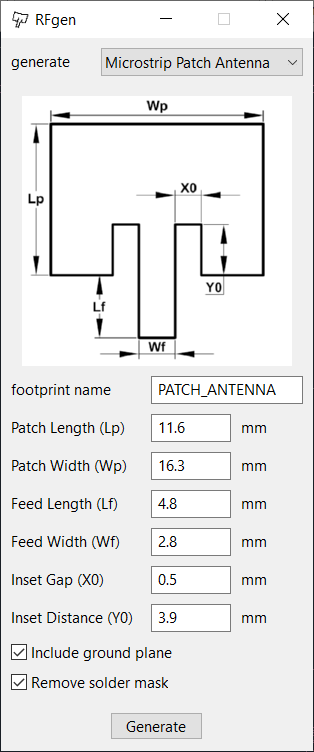
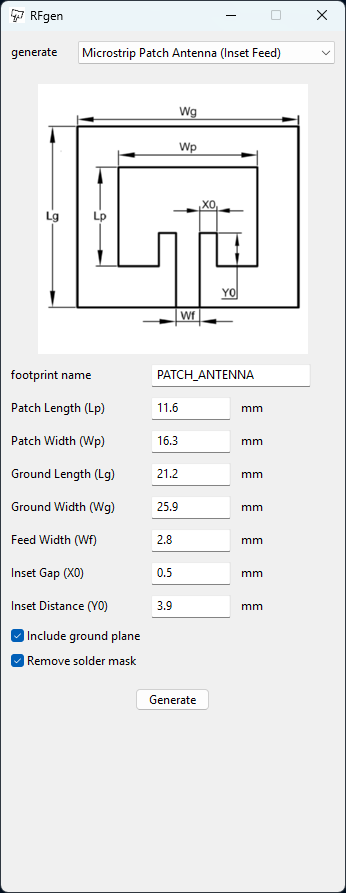
fix a bug where it caused a drc error when connecting antenna to a pad with a net

diff --git a/plugins/wilkinson_gen.py b/plugins/wilkinson_gen.py
@@ -1,25 +1,6 @@
 import pcbnew
+from .sexpr import points_to_sexpr, pad_to_sexpr, corner_anchor
 
-def points_to_sexpr(points, layer):
-    pts = []
-    mode = None
-    buf = []
-    for point in points:
-        if isinstance(point, str) and point.lower() == "arc_start":
-            mode = "arc"
-            buf = []
-            continue
-        if mode == "arc":
-            buf.append(point)
-            if len(buf) == 3:
-                start, mid, end = buf
-                pts.append(
-                    f"(arc (start {start.x/1e6:.6f} {start.y/1e6:.6f}) (mid {mid.x/1e6:.6f} {mid.y/1e6:.6f}) (end {end.x/1e6:.6f} {end.y/1e6:.6f}))"
-                )
-                mode = None
-            continue
-        pts.append(f"(xy {point.x/1e6:.6f} {point.y/1e6:.6f})")
-    return f"(fp_poly (pts {' '.join(pts)}) (layer {layer}) (width 0) (fill solid))\n"
 
 def generate_wilkinson(name="WILKINSON", input_length=4, input_width=5, output_length=8, output_width=4, arc_radius=5, arc_width=4, ground_check=True, mask_check=True):
     points_input = [
@@ -86,29 +67,19 @@ def generate_wilkinson(name="WILKINSON", input_length=4, input_width=5, output_l
         pcbnew.VECTOR2I(pcbnew.FromMM(arc_radius), pcbnew.FromMM(input_width/2+output_width/2)),
     ]
 
-    winput = points_to_sexpr(points_input, "F.Cu")
-    arc_left = points_to_sexpr(points_arc_left, "F.Cu")
-    arc_right = points_to_sexpr(points_arc_right, "F.Cu")
-    w_output_left = points_to_sexpr(points_output_left, "F.Cu")
-    w_output_right = points_to_sexpr(points_output_right, "F.Cu")
-    poly_f = winput + arc_left + arc_right + w_output_left + w_output_right
-
-    poly_b = points_to_sexpr(points_ground, "B.Cu")
-    poly_copper = poly_f + poly_b if ground_check else poly_f
+    input_pad = pad_to_sexpr(1, [points_input, points_arc_left, points_arc_right], (-arc_radius-arc_width-input_length/2, 0), (input_length, input_width), "F.Cu")
+    output_pad_left = pad_to_sexpr(2, [points_output_left], (arc_radius+arc_width+output_length/2, -input_width/2-output_width/2), (output_length, output_width), "F.Cu")
+    output_pad_right = pad_to_sexpr(3, [points_output_right], (arc_radius+arc_width+output_length/2, input_width/2+output_width/2), (output_length, output_width), "F.Cu")
+    ground_pad = pad_to_sexpr(4, [points_ground], *corner_anchor(points_ground), "B.Cu")
+    pads = input_pad + output_pad_left + output_pad_right + (ground_pad if ground_check else "")
 
     poly_mask_left = points_to_sexpr(points_mask_left, "F.Mask")
     poly_mask_right = points_to_sexpr(points_mask_right, "F.Mask")
-    poly_mask = poly_mask_left + poly_mask_right
-
-    poly = poly_copper + poly_mask if mask_check else poly_copper
-
-    input_pad = f"(pad 1 smd rect (at {-arc_radius-arc_width-input_length/2} 0) (size {input_length} {input_width}) (layers F.Cu))\n"
-    output_pad_left = f"(pad 2 smd rect (at {arc_radius+arc_width+output_length/2} {-input_width/2-output_width/2}) (size {output_length} {output_width}) (layers F.Cu))\n"
-    output_pad_right = f"(pad 3 smd rect (at {arc_radius+arc_width+output_length/2} {input_width/2+output_width/2}) (size {output_length} {output_width}) (layers F.Cu))\n"
-    pads = input_pad + output_pad_left + output_pad_right
+    poly = poly_mask_left + poly_mask_right if mask_check else ""
 
     template = f"""
                 (module {name} (layer F.Cu)
+                (net_tie_pad_groups "1,2,3")
                 (fp_text reference REF** (at 0 0) (layer F.SilkS))
                 (fp_text value {name} (at 0 -2) (layer F.Fab))
                 {poly}

diff --git a/plugins/microstrip_patch_dual_coaxial_gen.py b/plugins/microstrip_patch_dual_coaxial_gen.py
@@ -1,10 +1,6 @@
 import pcbnew
 import math
-
-
-def points_to_sexpr(points, layer):
-    pts = " ".join([f"(xy {p.x / 1e6:.6f} {p.y / 1e6:.6f})" for p in points])
-    return f"(fp_poly (pts {pts}) (layer {layer}) (width 0) (fill solid))\n"
+from .sexpr import points_to_sexpr, pad_to_sexpr, corner_anchor
 
 
 def generate_microstrip_dual_coaxial_patch(name="PATCH_ANTENNA", patch_length=28.314, patch_width=28.314, ground_length=37.914, ground_width=37.914, feed_offset_x_a=7.286, feed_offset_y_a=0, feed_offset_x_b=0, feed_offset_y_b=7.286, pad_radius=2.143, hole_radius=0.635, clearance_radius=3.5, ground_check=True, mask_check=True):
@@ -39,19 +35,20 @@ def generate_microstrip_dual_coaxial_patch(name="PATCH_ANTENNA", patch_length=28
         pcbnew.VECTOR2I(-pcbnew.FromMM(ground_width / 2), pcbnew.FromMM(ground_length / 2))
     ]
 
-    poly_f = points_to_sexpr(points_f, "F.Cu")
-    poly_b = points_to_sexpr(points_b, "B.Cu")
+    pad_probe_a = f"(pad 1 thru_hole circle (at {feed_offset_x_a} {feed_offset_y_a}) (size {pad_radius * 2} {pad_radius * 2}) (drill {hole_radius * 2}) (layers *.Cu *.Mask))\n"
+    pad_probe_b = f"(pad 2 thru_hole circle (at {feed_offset_x_b} {feed_offset_y_b}) (size {pad_radius * 2} {pad_radius * 2}) (drill {hole_radius * 2}) (layers *.Cu *.Mask))\n"
+    pad_f = pad_to_sexpr(1, [points_f], (feed_offset_x_a, feed_offset_y_a), (pad_radius * 2, pad_radius * 2), "F.Cu", anchor="circle")
+    pad_b = pad_to_sexpr(3, [points_b], *corner_anchor(points_b), "B.Cu")
+    pads = pad_probe_a + pad_probe_b + pad_f + (pad_b if ground_check else "")
+
     poly_fm = points_to_sexpr(points_f, "F.Mask")
     poly_bm = points_to_sexpr(points_b, "B.Mask")
-    poly_copper = poly_f + poly_b if ground_check else poly_f
     poly_mask = poly_fm + poly_bm if ground_check else poly_fm
-    poly = poly_copper + poly_mask if mask_check else poly_copper
-
-    pads = (f"(pad 1 thru_hole circle (at {feed_offset_x_a} {feed_offset_y_a}) (size {pad_radius * 2} {pad_radius * 2}) (drill {hole_radius * 2}) (layers *.Cu *.Mask))\n"
-            f"(pad 2 thru_hole circle (at {feed_offset_x_b} {feed_offset_y_b}) (size {pad_radius * 2} {pad_radius * 2}) (drill {hole_radius * 2}) (layers *.Cu *.Mask))\n")
+    poly = poly_mask if mask_check else ""
 
     template = f"""
                 (module {name} (layer F.Cu)
+                (net_tie_pad_groups "1,2")
                 (fp_text reference REF** (at 0 0) (layer F.SilkS))
                 (fp_text value {name} (at 0 -2) (layer F.Fab))
                 {poly}

diff --git a/plugins/microstrip_patch_coaxial_gen.py b/plugins/microstrip_patch_coaxial_gen.py
@@ -1,10 +1,6 @@
 import pcbnew
 import math
-
-
-def points_to_sexpr(points, layer):
-    pts = " ".join([f"(xy {p.x / 1e6:.6f} {p.y / 1e6:.6f})" for p in points])
-    return f"(fp_poly (pts {pts}) (layer {layer}) (width 0) (fill solid))\n"
+from .sexpr import points_to_sexpr, pad_to_sexpr, corner_anchor
 
 
 def generate_microstrip_coaxial_patch(name="PATCH_ANTENNA", patch_length=28.348, patch_width=28.348, ground_length=37.948, ground_width=37.948, feed_offset_x=0, feed_offset_y=7.286, pad_radius=2.143, hole_radius=0.635, clearance_radius=3.5, ground_check=True, mask_check=True):
@@ -32,15 +28,15 @@ def generate_microstrip_coaxial_patch(name="PATCH_ANTENNA", patch_length=28.348,
         pcbnew.VECTOR2I(-pcbnew.FromMM(ground_width / 2), pcbnew.FromMM(ground_length / 2))
     ]
 
-    poly_f = points_to_sexpr(points_f, "F.Cu")
-    poly_b = points_to_sexpr(points_b, "B.Cu")
+    pad_probe = f"(pad 1 thru_hole circle (at {feed_offset_x} {feed_offset_y}) (size {pad_radius * 2} {pad_radius * 2}) (drill {hole_radius * 2}) (layers *.Cu *.Mask))\n"
+    pad_f = pad_to_sexpr(1, [points_f], (feed_offset_x, feed_offset_y), (pad_radius * 2, pad_radius * 2), "F.Cu", anchor="circle")
+    pad_b = pad_to_sexpr(2, [points_b], *corner_anchor(points_b), "B.Cu")
+    pad = pad_probe + pad_f + (pad_b if ground_check else "")
+
     poly_fm = points_to_sexpr(points_f, "F.Mask")
     poly_bm = points_to_sexpr(points_b, "B.Mask")
-    poly_copper = poly_f + poly_b if ground_check else poly_f
     poly_mask = poly_fm + poly_bm if ground_check else poly_fm
-    poly = poly_copper + poly_mask if mask_check else poly_copper
-
-    pad = f"(pad 1 thru_hole circle (at {feed_offset_x} {feed_offset_y}) (size {pad_radius * 2} {pad_radius * 2}) (drill {hole_radius * 2}) (layers *.Cu *.Mask))\n"
+    poly = poly_mask if mask_check else ""
 
     template = f"""
                 (module {name} (layer F.Cu)

diff --git a/plugins/sexpr.py b/plugins/sexpr.py
@@ -1,0 +1,40 @@
+def _pts(points, offset_x=0.0, offset_y=0.0):
+    pts = []
+    mode = None
+    buf = []
+    for point in points:
+        if isinstance(point, str) and point.lower() == "arc_start":
+            mode = "arc"
+            buf = []
+            continue
+        if mode == "arc":
+            buf.append(point)
+            if len(buf) == 3:
+                start, mid, end = buf
+                pts.append(
+                    f"(arc (start {start.x/1e6 - offset_x:.6f} {start.y/1e6 - offset_y:.6f})"
+                    f" (mid {mid.x/1e6 - offset_x:.6f} {mid.y/1e6 - offset_y:.6f})"
+                    f" (end {end.x/1e6 - offset_x:.6f} {end.y/1e6 - offset_y:.6f}))"
+                )
+                mode = None
+            continue
+        pts.append(f"(xy {point.x/1e6 - offset_x:.6f} {point.y/1e6 - offset_y:.6f})")
+    return " ".join(pts)
+
+
+def points_to_sexpr(points, layer):
+    return f"(fp_poly (pts {_pts(points)}) (layer {layer}) (width 0) (fill solid))\n"
+
+
+def pad_to_sexpr(number, polys, at, size, layers, anchor="rect"):
+    x, y = at
+    primitives = "".join(f"(gr_poly (pts {_pts(poly, x, y)}) (width 0) (fill yes))" for poly in polys)
+    return (f"(pad {number} smd custom (at {x:.6f} {y:.6f}) (size {size[0]:.6f} {size[1]:.6f}) (layers {layers})"
+            f"(options (clearance outline) (anchor {anchor}))"
+            f"(primitives {primitives}))\n")
+
+
+def corner_anchor(points, size=0.5):
+    x = min(p.x for p in points) / 1e6 + size / 2
+    y = min(p.y for p in points) / 1e6 + size / 2
+    return (x, y), (size, size)

diff --git a/plugins/microstrip_patch_gen_legacy.py b/plugins/microstrip_patch_gen_legacy.py
@@ -1,9 +1,5 @@
 import pcbnew
-
-
-def points_to_sexpr(points, layer):
-    pts = " ".join([f"(xy {p.x / 1e6:.6f} {p.y / 1e6:.6f})" for p in points])
-    return f"(fp_poly (pts {pts}) (layer {layer}) (width 0) (fill solid))\n"
+from .sexpr import points_to_sexpr, pad_to_sexpr, corner_anchor
 
 
 def generate_microstrip_patch_legacy(name="PATCH_ANTENNA", patch_length=15, patch_width=20, feed_length=5, feed_width=3, inset_gap=1, inset_distance=5, ground_check=True, mask_check=True):
@@ -30,15 +26,14 @@ def generate_microstrip_patch_legacy(name="PATCH_ANTENNA", patch_length=15, patc
         pcbnew.VECTOR2I(-pcbnew.FromMM(patch_width / 2), pcbnew.FromMM(patch_length / 2 + feed_length))
     ]
 
-    poly_f = points_to_sexpr(points_f, "F.Cu")
-    poly_b = points_to_sexpr(points_b, "B.Cu")
+    pad_f = pad_to_sexpr(1, [points_f], (0, patch_length / 2 + feed_length - feed_width / 2), (feed_width, feed_width), "F.Cu")
+    pad_b = pad_to_sexpr(2, [points_b], *corner_anchor(points_b), "B.Cu")
+    pad = pad_f + pad_b if ground_check else pad_f
+
     poly_fm = points_to_sexpr(points_f, "F.Mask")
     poly_bm = points_to_sexpr(points_b, "B.Mask")
-    poly_copper = poly_f + poly_b if ground_check else poly_f
     poly_mask = poly_fm + poly_bm if ground_check else poly_fm
-    poly = poly_copper + poly_mask if mask_check else poly_copper
-
-    pad = f"(pad 1 smd rect (at 0 {patch_length/2+feed_length-feed_width/2}) (size {feed_width} {feed_width}) (layers F.Cu))\n"
+    poly = poly_mask if mask_check else ""
 
     template = f"""
                 (module {name} (layer F.Cu)

diff --git a/plugins/microstrip_patch_inset_gen.py b/plugins/microstrip_patch_inset_gen.py
@@ -1,9 +1,5 @@
 import pcbnew
-
-
-def points_to_sexpr(points, layer):
-    pts = " ".join([f"(xy {p.x / 1e6:.6f} {p.y / 1e6:.6f})" for p in points])
-    return f"(fp_poly (pts {pts}) (layer {layer}) (width 0) (fill solid))\n"
+from .sexpr import points_to_sexpr, pad_to_sexpr, corner_anchor
 
 
 def generate_microstrip_inset_patch(name="PATCH_ANTENNA", patch_length=15, patch_width=20, ground_length=24.6, ground_width=29.6, feed_width=3, inset_gap=1, inset_distance=5, ground_check=True, mask_check=True):
@@ -30,15 +26,14 @@ def generate_microstrip_inset_patch(name="PATCH_ANTENNA", patch_length=15, patch
         pcbnew.VECTOR2I(-pcbnew.FromMM(ground_width / 2), pcbnew.FromMM(ground_length / 2))
     ]
 
-    poly_f = points_to_sexpr(points_f, "F.Cu")
-    poly_b = points_to_sexpr(points_b, "B.Cu")
+    pad_f = pad_to_sexpr(1, [points_f], (0, ground_length / 2 - feed_width / 2), (feed_width, feed_width), "F.Cu")
+    pad_b = pad_to_sexpr(2, [points_b], *corner_anchor(points_b), "B.Cu")
+    pad = pad_f + pad_b if ground_check else pad_f
+
     poly_fm = points_to_sexpr(points_f, "F.Mask")
     poly_bm = points_to_sexpr(points_b, "B.Mask")
-    poly_copper = poly_f + poly_b if ground_check else poly_f
     poly_mask = poly_fm + poly_bm if ground_check else poly_fm
-    poly = poly_copper + poly_mask if mask_check else poly_copper
-
-    pad = f"(pad 1 smd rect (at 0 {ground_length/2-feed_width/2}) (size {feed_width} {feed_width}) (layers F.Cu))\n"
+    poly = poly_mask if mask_check else ""
 
     template = f"""
                 (module {name} (layer F.Cu)
